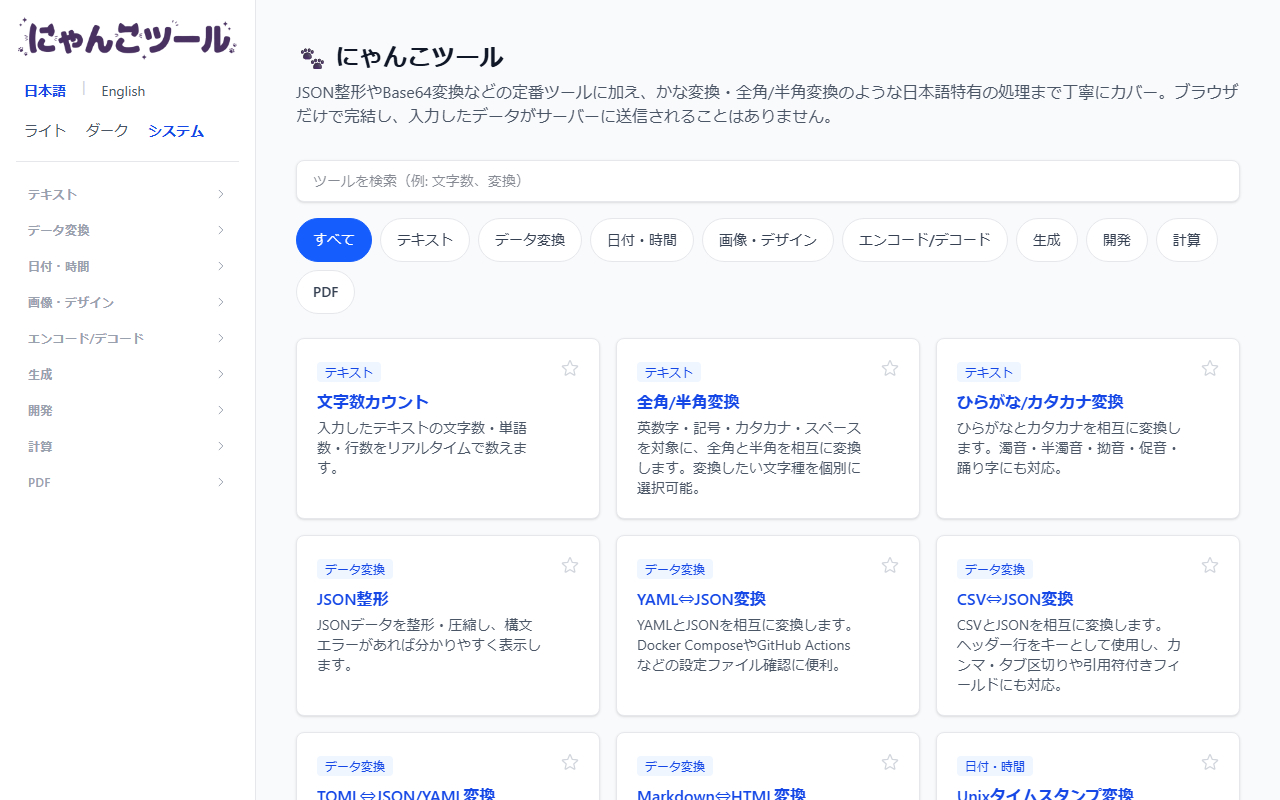
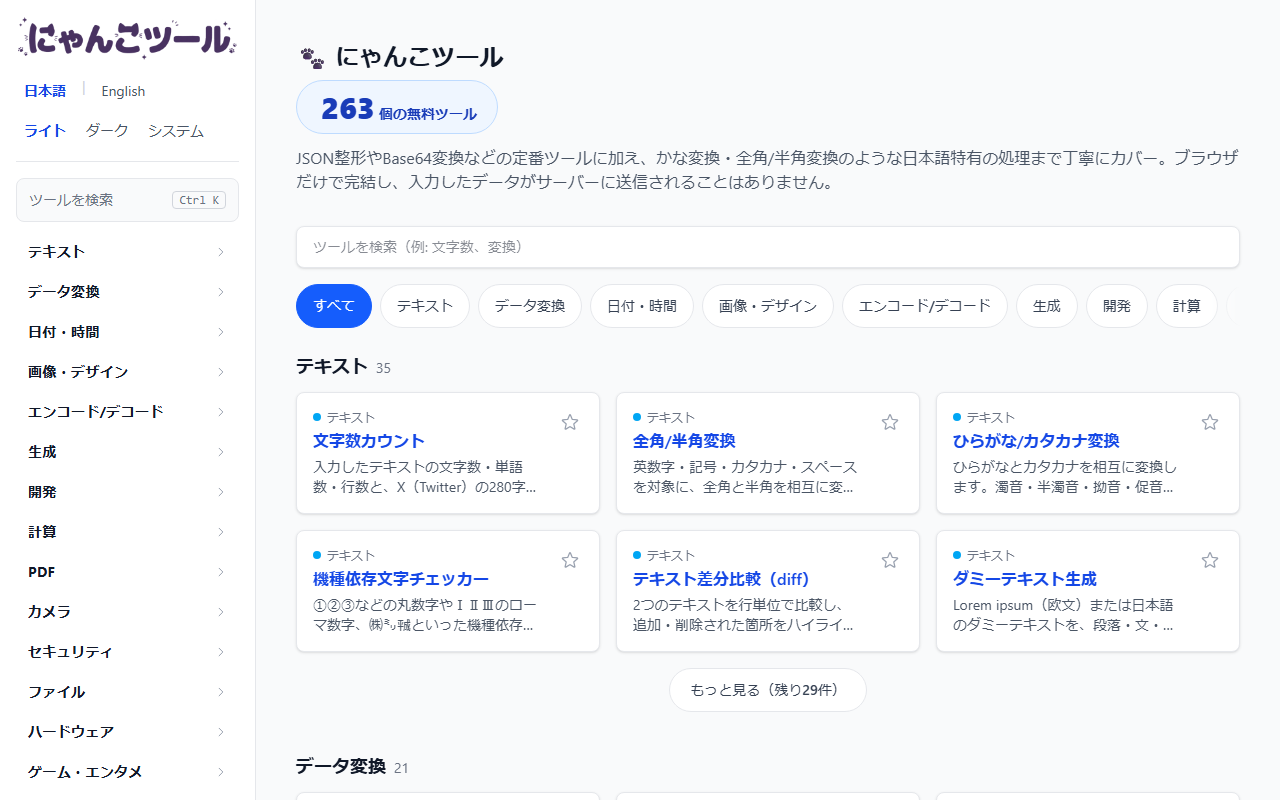
READMEに現行機能とコマンドを追記し、スクリーンショットを撮り直す

diff --git a/README.md b/README.md
@@ -24,6 +24,7 @@
 - **多数のツール**: テキスト処理・データ変換・エンコード/デコード・生成系・開発支援・計算機・PDFなど。
 - **日本語 / 英語対応**: 全ページが `ja`（`/tools/...`）・`en`（`/en/tools/...`）の両ロケールを提供。
 - **SEO志向**: ツールごとに個別の title/description、内部リンク、構造化データ、サイトマップを整備。
+- **使いやすさ**: トップの検索・カテゴリ絞り込み、コマンドパレット（`Ctrl/⌘+K`）、お気に入り（端末内のみ保存）、キーボードショートカット（`/shortcuts`）、更新情報（`/updates`）。詳細は [`docs/spec.md`](./docs/spec.md)。
 - **レスポンシブ**: モバイル（375px前後）でも崩れないレイアウト。
 
 ## 技術的なこだわり
@@ -80,6 +81,8 @@ pnpm test             # Vitest（一括実行）
 pnpm run test:watch   # Vitest（ウォッチモード）
 pnpm run test:e2e     # Playwright E2E
 pnpm run test:e2e:ui  # Playwright E2E（UIモード）
+pnpm qa <slug…>       # 対象ツールのspecだけを実行するQA用ラッパー（scripts/qa.mjs）
+pnpm run check:bundle # JSバンドル予算のチェック（scripts/bundle-budget.mjs）
 ```
 
 ## ディレクトリ構成
